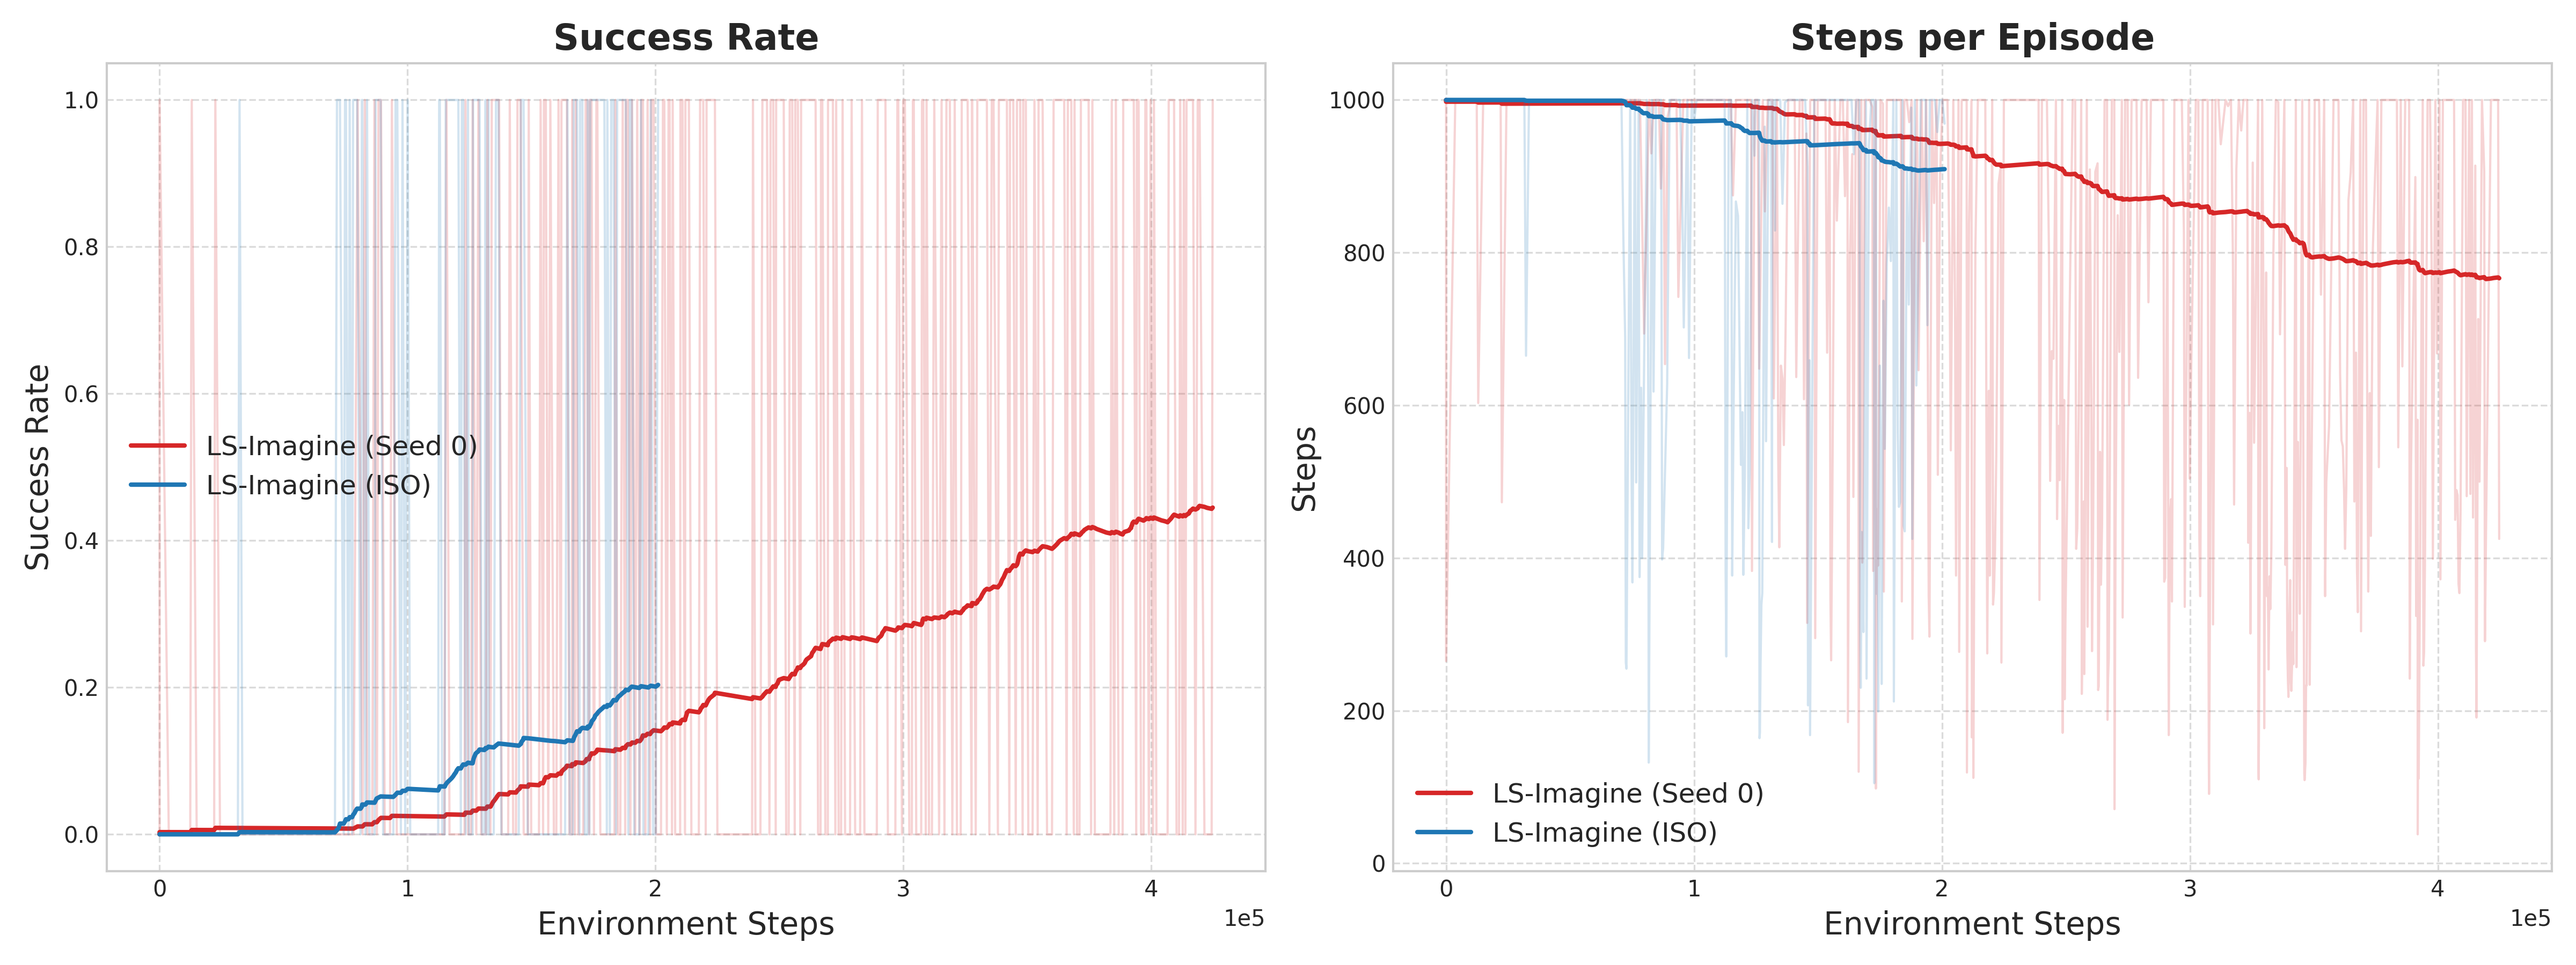
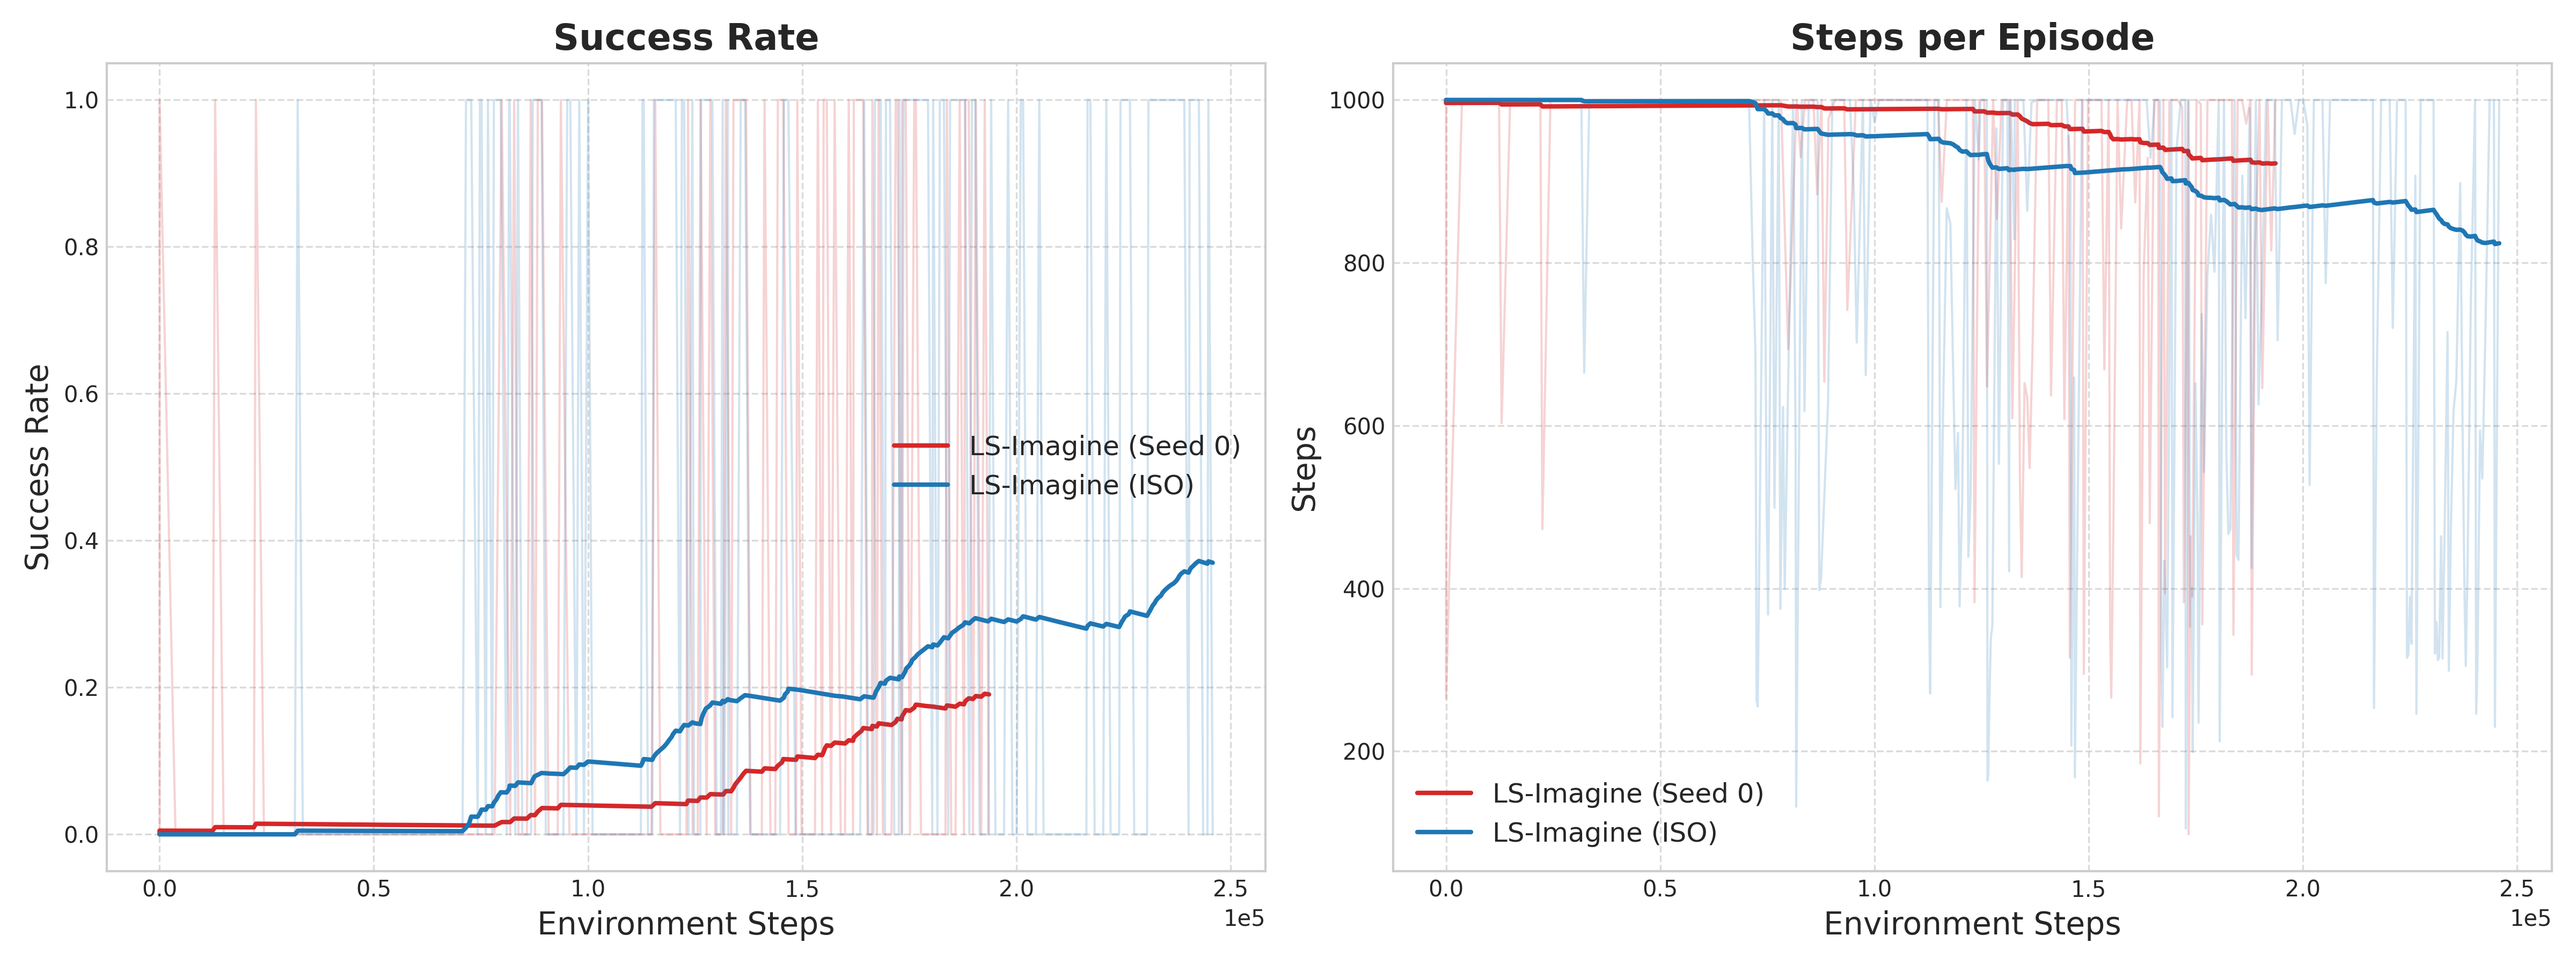
创新点3-改进

Changed region(s): [[0.0625, 0.0933, 0.5, 0.8711], [0.5, 0.0933, 0.9688, 0.8089], [0.5625, 0.4044, 0.5938, 0.4667]]

diff --git a/model_own.py b/model_own.py
@@ -274,6 +274,7 @@ class WorldModel(nn.Module):
             inverse=getattr(config, "inverse_loss_scale", 1.0), # 建议在 configs.yaml 默认设为 1.0
             # 增加创新点 2 的损失权重，建议初始设为 1.0 或 2.0
             affordance_s=getattr(config, "affordance_s_scale", 1.0),
+            interaction=getattr(config, "interaction_loss_scale", 1.0),
         )
 
     def _train(self, data_origin):
@@ -322,14 +323,21 @@ class WorldModel(nn.Module):
                     loss_affordance_s = -preds_s['heatmap'].log_prob(data['heatmap'])
                     # --------------------------------------------
 
-                    # --- [创新点 3：交互门训练] ---
-                    # 目标：交互门应该在奖励 (Reward) 发生剧烈变化的地方输出高值
+                    # --- [创新点 3：交互门训练逻辑修复] ---
+                    # 1. 计算当前受控状态下的交互分数 (B, T, 1)
                     interaction_score = self.dynamics.get_interaction_score(post)
-                    # 计算奖励的变化梯度作为监督信号
+                    
+                    # 2. 计算奖励的变化梯度作为真实标签 (B, T)
+                    # 计算相邻步奖励差的绝对值
                     reward_diff = torch.abs(data["reward"][:, 1:] - data["reward"][:, :-1])
+                    # 在起始端补零，对齐时间步长度 T
                     reward_diff = torch.cat([torch.zeros_like(reward_diff[:, :1]), reward_diff], dim=1)
-                    # 交互门损失：让 interaction_score 拟合奖励的突变
-                    loss_interaction = F.binary_cross_entropy(interaction_score, (reward_diff > 0).float())
+                    
+                    # --- 修复点：使用 unsqueeze(-1) 将 (B, T) 变为 (B, T, 1) ---
+                    interaction_target = (reward_diff > 0).float().unsqueeze(-1)
+                    
+                    # 计算二元交叉熵损失
+                    loss_interaction = F.binary_cross_entropy(interaction_score, interaction_target)
                     # --------------------------------------------
 
                     # 3. 计算 KL 散度损失
@@ -430,12 +438,11 @@ class WorldModel(nn.Module):
                         kl_loss = kl_loss_img
                         model_loss = sum(scaled.values()) + kl_loss
 
-                    # 汇总三大核心创新损失：基础重构 + 逆动力学 + 热力图先验
+                    # 3. 汇总总损失
                     total_loss = torch.mean(model_loss) + \
                                 loss_inv * self._scales.get("inverse", 1.0) + \
-                                torch.mean(loss_affordance_s) * self._scales.get("affordance_s", 1.0)
-                    
-                    total_loss += torch.mean(loss_interaction) * self._scales.get("interaction", 1.0)
+                                torch.mean(loss_affordance_s) * self._scales.get("affordance_s", 1.0) + \
+                                torch.mean(loss_interaction) * self._scales.get("interaction", 1.0)
 
                 # 统一执行优化
                 metrics = self._model_opt(total_loss, self.parameters())
@@ -446,6 +453,7 @@ class WorldModel(nn.Module):
             metrics["loss_affordance_s"] = to_np(torch.mean(loss_affordance_s))
             metrics["model_loss"] = to_np(total_loss)
             metrics["kl"] = to_np(torch.mean(kl_value_img))
+            metrics["loss_interaction"] = to_np(torch.mean(loss_interaction))
             
             with torch.cuda.amp.autocast(self._use_amp):
                 s_stats = {k[2:]:v for k,v in post.items() if k.startswith("s_")}

diff --git a/networks.py b/networks.py
@@ -65,19 +65,24 @@ class RSSM(nn.Module):
         if self._initial == "learned":
             self.W = torch.nn.Parameter(torch.zeros((1, self._deter), device=torch.device(self._device)), requires_grad=True)
         
-        # 交互探测器：输入受控分支特征，输出一个交互置信度 (0~1)
+        # [创新点 3] 交互探测器：输入受控分支特征 (s)，输出交互强度 (0~1)
+        # 输入维度: deter_s + stoch_s (discrete 模式下需展平)
+        stoch_size_s = self._stoch_s * (self._discrete if self._discrete else 1)
         self._interaction_gate = nn.Sequential(
             nn.Linear(self._deter_s + stoch_size_s, self._hidden),
-            nn.ReLU(),
+            nn.LayerNorm(self._hidden, eps=1e-03) if norm else nn.Identity(),
+            act_fn(),
             nn.Linear(self._hidden, 1),
             nn.Sigmoid()
         )
+        self._interaction_gate.apply(tools.weight_init)
 
+    # [创新点 3] 获取交互分数函数
     def get_interaction_score(self, state):
-        # 仅利用受控分支特征 (s)
         s_stoch = state["stoch_s"]
         if self._discrete:
             s_stoch = s_stoch.reshape(list(s_stoch.shape[:-2]) + [self._stoch_s * self._discrete])
+        # 仅拼接受控分支的随机态和确定态
         feat_s = torch.cat([s_stoch, state["deter_s"]], -1)
         return self._interaction_gate(feat_s)
     

diff --git a/cctest.py b/cctest.py
@@ -6,12 +6,12 @@ import os
 
 # --- 配置部分 ---
 # 这里填写你的日志文件名
-FILE_PATH = './load_metric/M.jsonl' 
+FILE_PATH = './load_metric/no-drive.jsonl' 
 # 如果你有另一个对比文件（比如提供的 iso_12_8），可以填在这里，否则设为 None
-FILE_PATH_2 = './load_metric/CORE.jsonl' 
+FILE_PATH_2 = './load_metric/CORE-2.jsonl' 
 
 # 平滑系数 (0~1)，越大越平滑，论文图中通常设为 0.6 到 0.99
-SMOOTH_FACTOR = 0.997  
+SMOOTH_FACTOR = 0.995  
 
 def load_data(file_path):
     """
